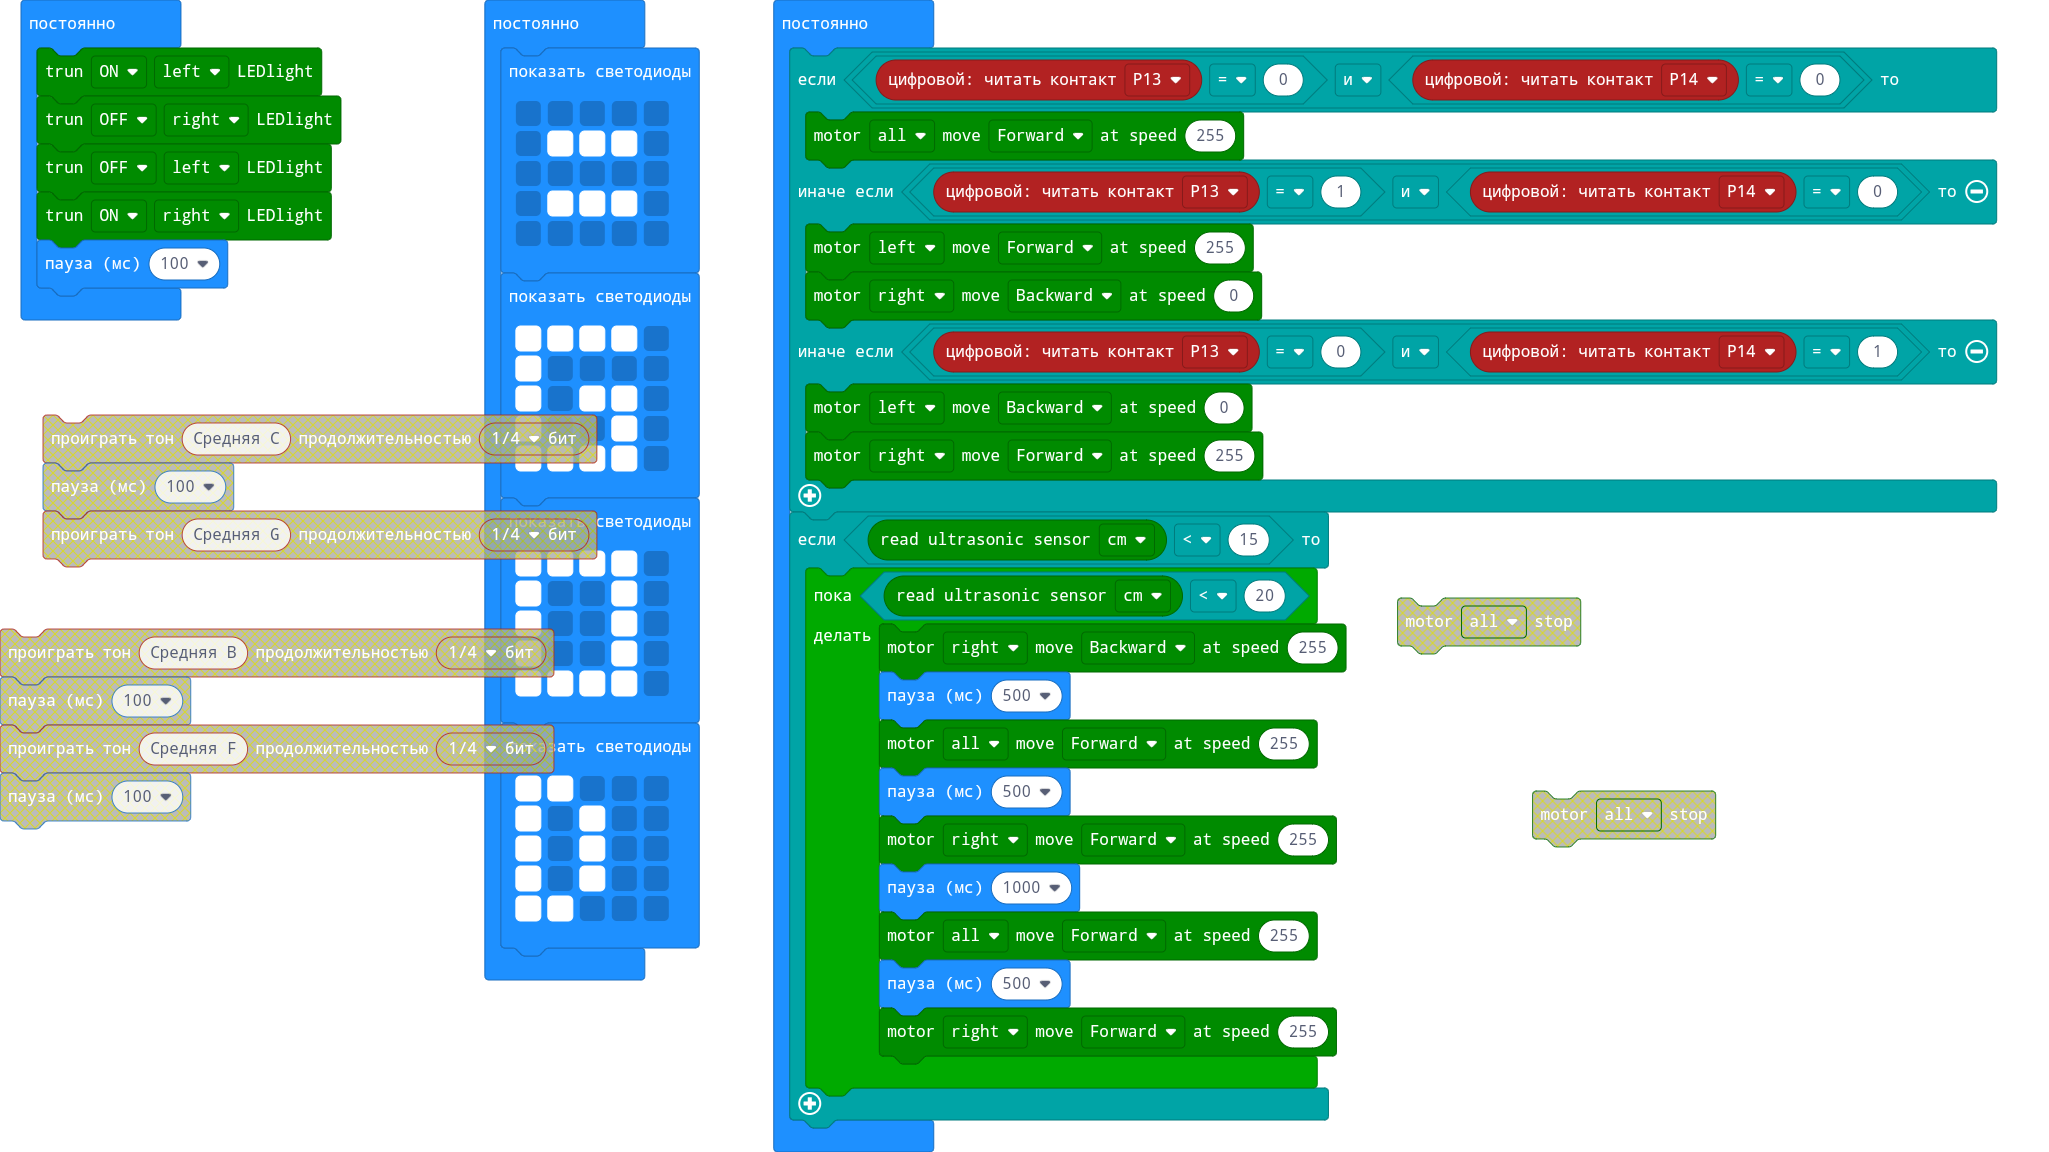
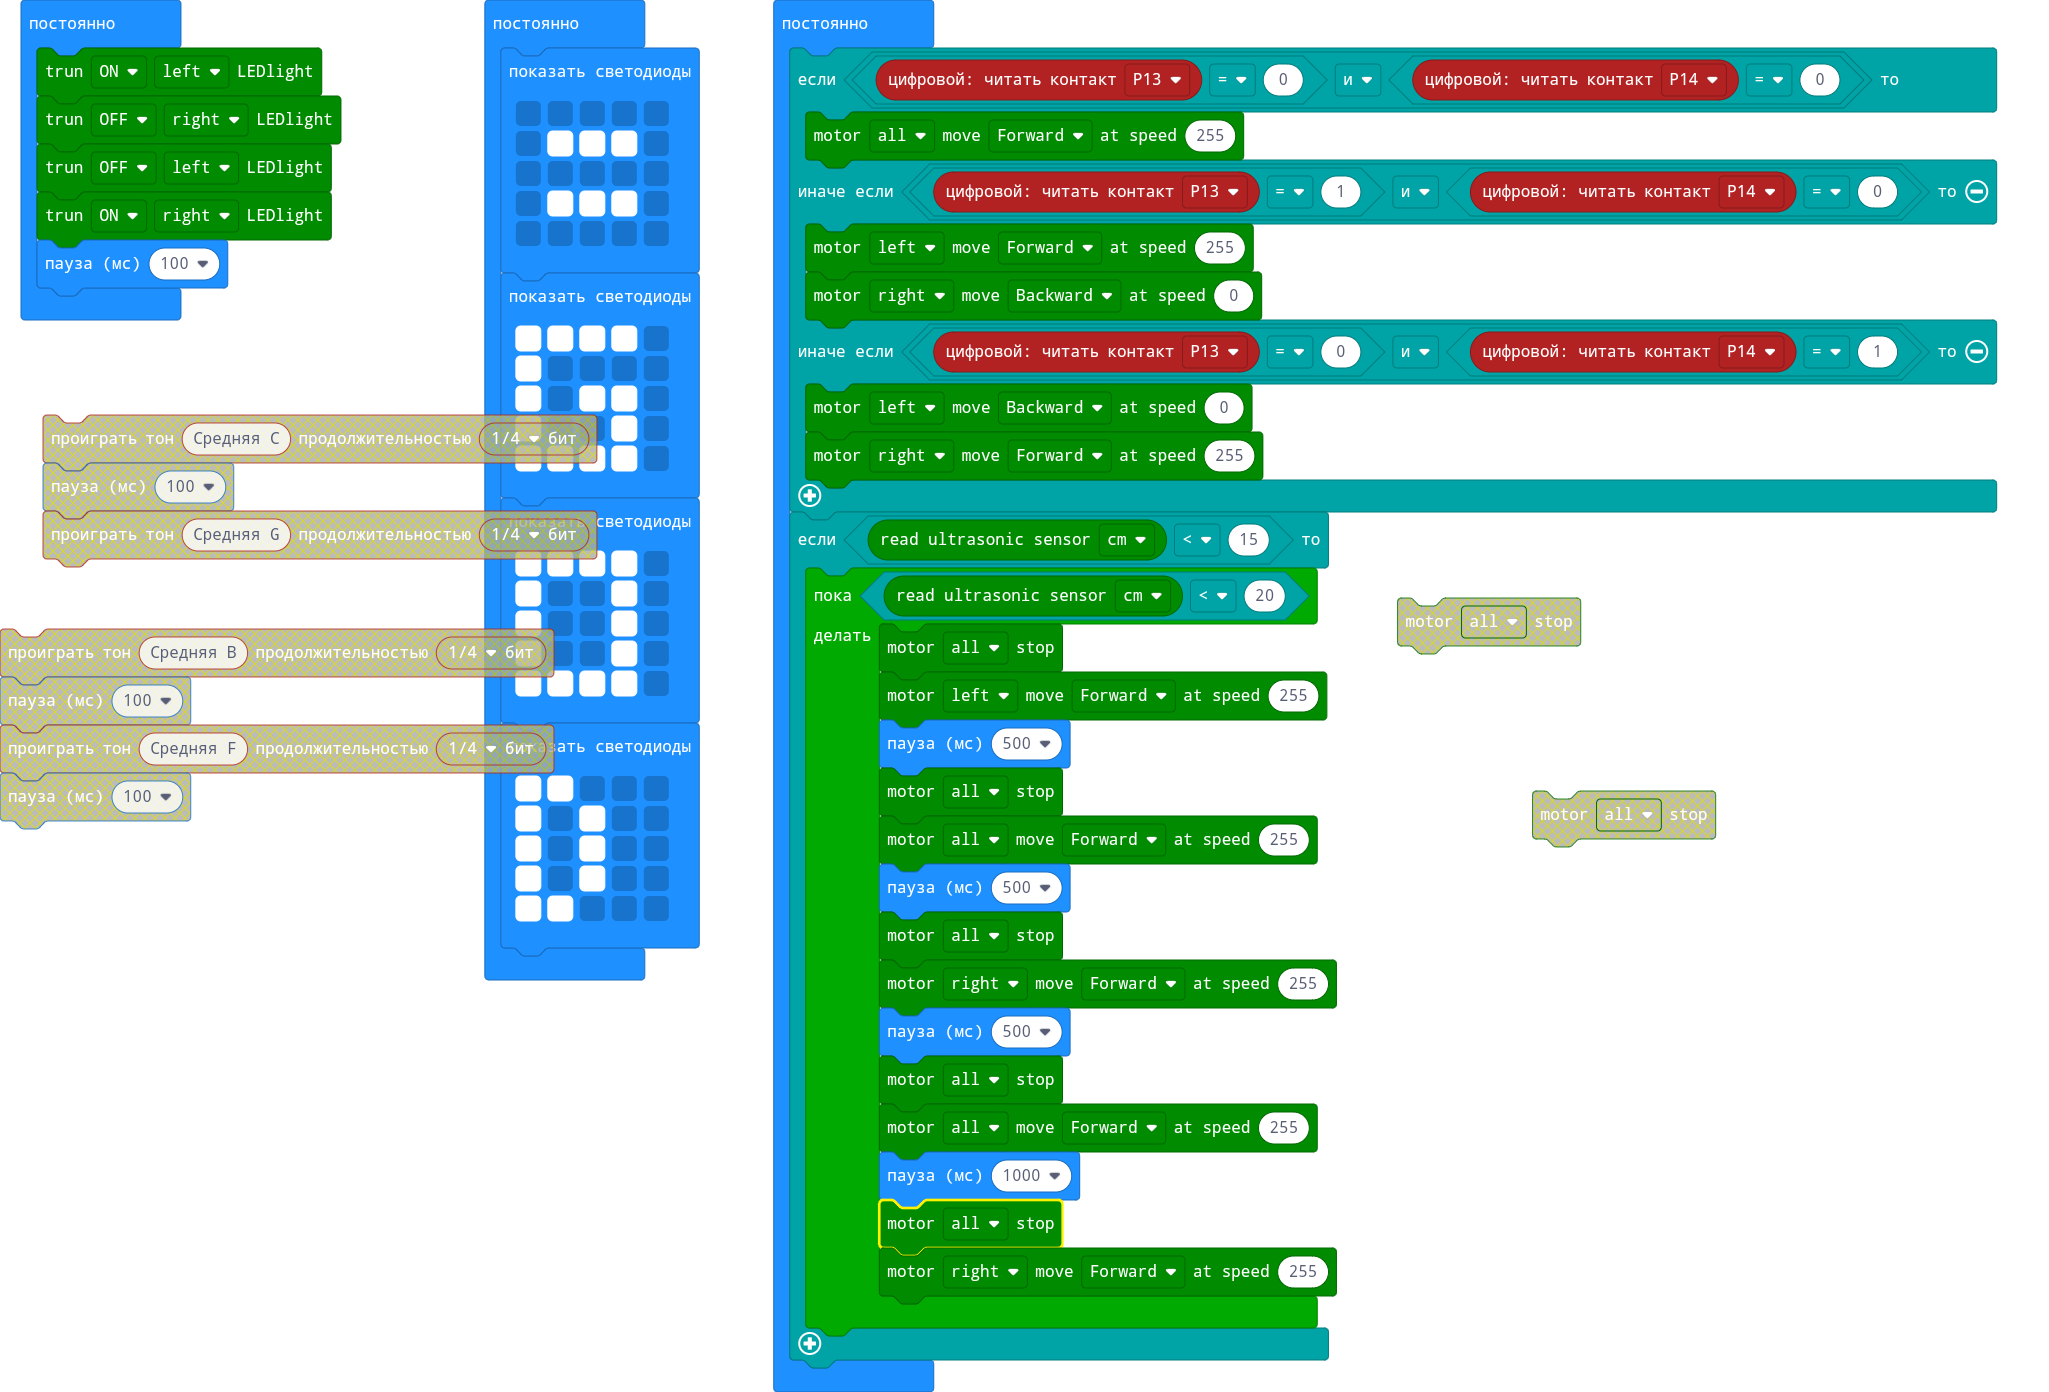
Update main.blocks, main.ts

diff --git a/main.ts b/main.ts
@@ -47,14 +47,19 @@ basic.forever(function () {
     }
     if (maqueen.Ultrasonic(PingUnit.Centimeters) < 15) {
         while (maqueen.Ultrasonic(PingUnit.Centimeters) < 20) {
-            maqueen.motorRun(maqueen.Motors.M2, maqueen.Dir.CCW, 255)
+            maqueen.motorStop(maqueen.Motors.All)
+            maqueen.motorRun(maqueen.Motors.M1, maqueen.Dir.CW, 255)
             basic.pause(500)
+            maqueen.motorStop(maqueen.Motors.All)
             maqueen.motorRun(maqueen.Motors.All, maqueen.Dir.CW, 255)
             basic.pause(500)
+            maqueen.motorStop(maqueen.Motors.All)
             maqueen.motorRun(maqueen.Motors.M2, maqueen.Dir.CW, 255)
-            basic.pause(1000)
-            maqueen.motorRun(maqueen.Motors.All, maqueen.Dir.CW, 255)
             basic.pause(500)
+            maqueen.motorStop(maqueen.Motors.All)
+            maqueen.motorRun(maqueen.Motors.All, maqueen.Dir.CW, 255)
+            basic.pause(1000)
+            maqueen.motorStop(maqueen.Motors.All)
             maqueen.motorRun(maqueen.Motors.M2, maqueen.Dir.CW, 255)
         }
     }
